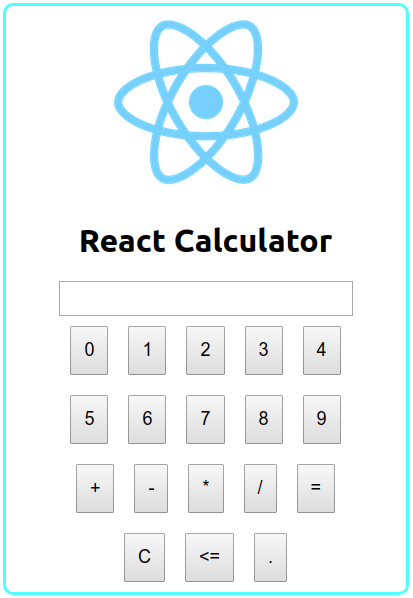
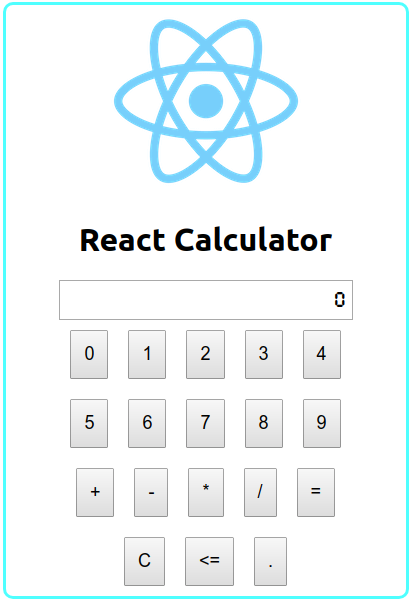
updated readme

diff --git a/src/index.css b/src/index.css
@@ -11,3 +11,8 @@ code {
   font-family: source-code-pro, Menlo, Monaco, Consolas, 'Courier New',
     monospace;
 }
+
+@font-face {
+  font-family: "Digital-7";
+  src: url("./fonts/pocket_calcuatlor_tt.ttf");
+}

diff --git a/src/components/Screen.css b/src/components/Screen.css
@@ -2,8 +2,9 @@
     text-align: center;
 }
 .screenInput{
-    font-size: 18px;
+    font-size: 25px;
     padding: 5px;
     width: 70%;
     text-align: right;
+    font-family: Digital-7;
 }

diff --git a/README.md b/README.md
@@ -4,6 +4,21 @@ A simple calculator made with modern react.
 
 ![react calculator](/public/reactCalci.png)
 
+## Dependencies
+
+* nodejs
+
+## Installation
+
+* For installing firstly clone the project using
+
+```bash
+https://github.com/GauravWalia19/React-Calci.git
+```
+
+* Then open the project go in root of the project directory and run command `npm install`.
+* Follow the available scripts given below.
+
 ## Available Scripts
 
 In the project directory, you can run:
@@ -40,3 +55,7 @@ If you aren’t satisfied with the build tool and configuration choices, you can
 Instead, it will copy all the configuration files and the transitive dependencies (webpack, Babel, ESLint, etc) right into your project so you have full control over them. All of the commands except `eject` will still work, but they will point to the copied scripts so you can tweak them. At this point you’re on your own.
 
 You don’t have to ever use `eject`. The curated feature set is suitable for small and middle deployments, and you shouldn’t feel obligated to use this feature. However we understand that this tool wouldn’t be useful if you couldn’t customize it when you are ready for it.
+
+## LICENSE
+
+[MIT LICENSE](LICENSE)
